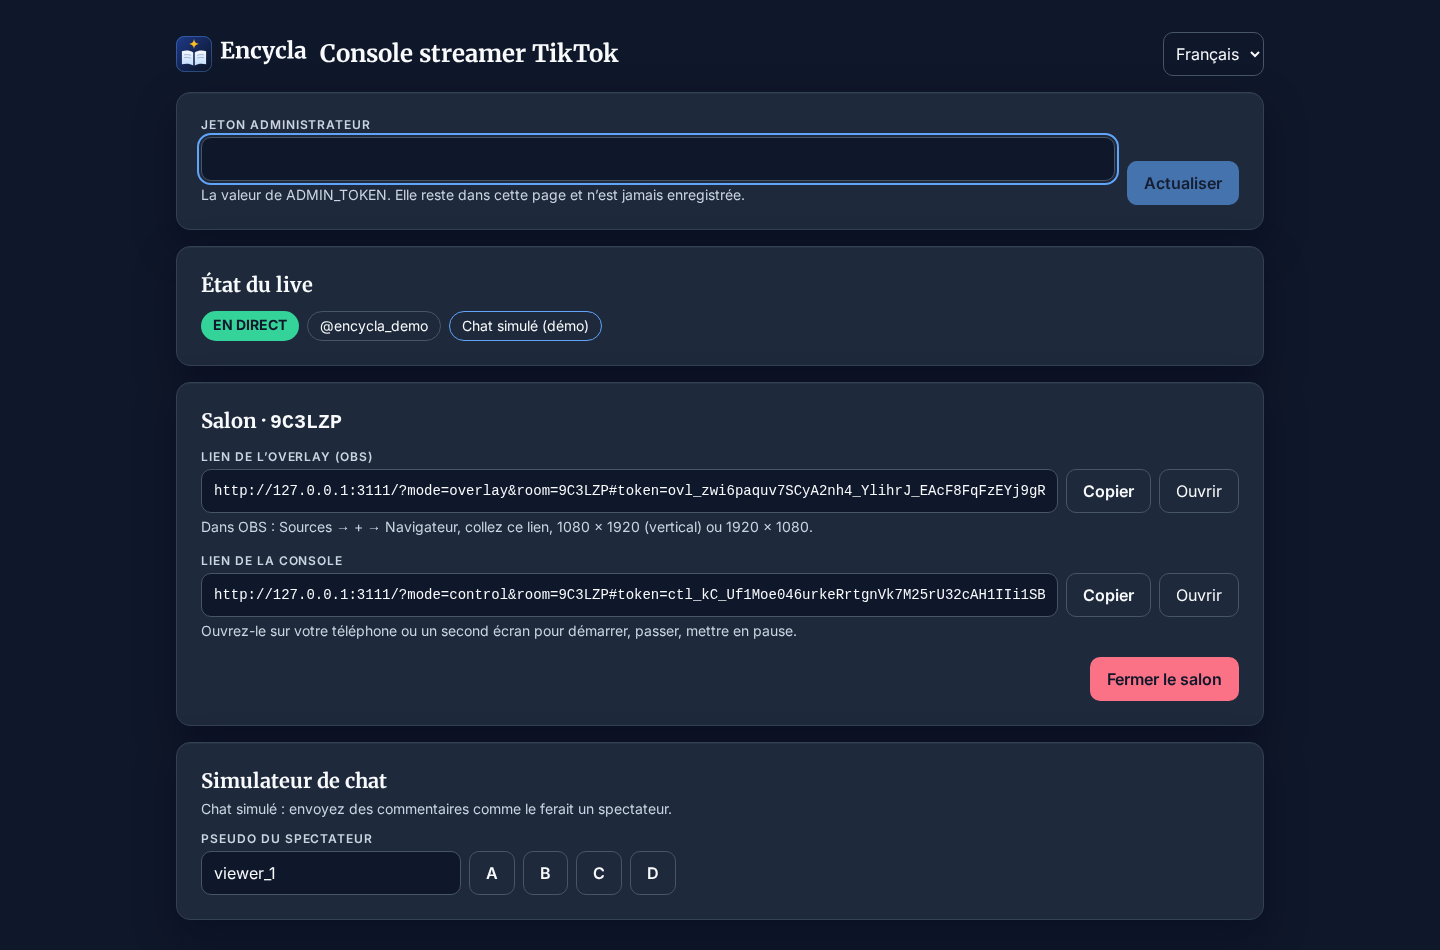
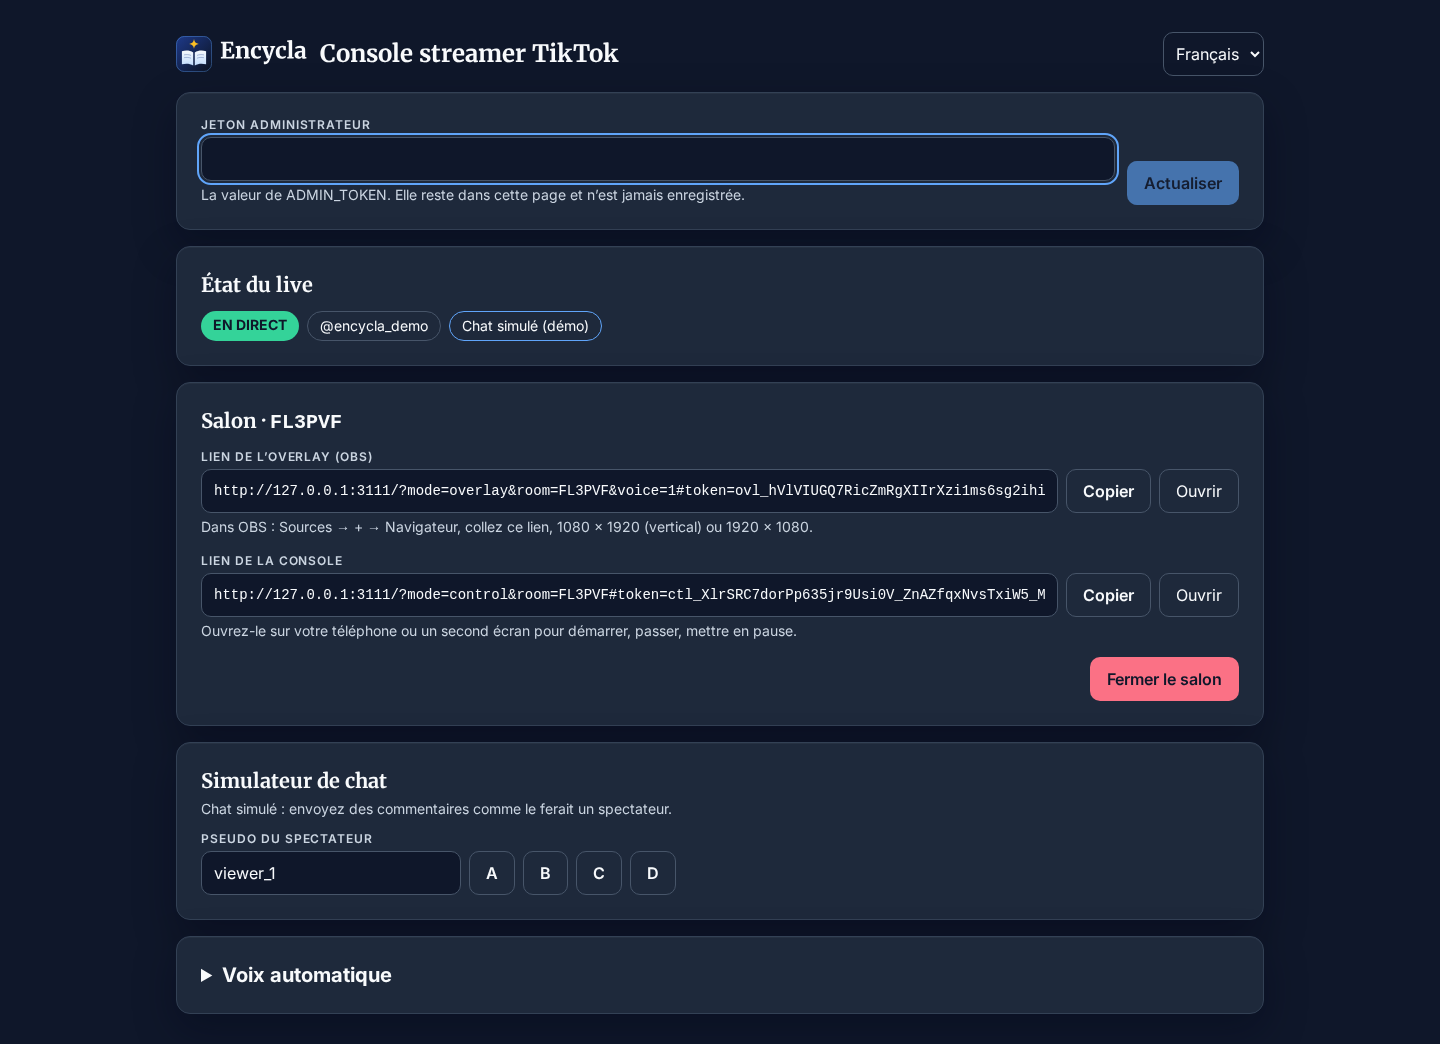
Screenshots refreshed with the voice controls (header button, home suggestion and settings, console voice panel); README and TESTING: voice tests and counts

Changed region(s): [[0.125, 0.0305, 0.875, 0.9768], [0.8125, 0.4579, 0.8438, 0.58], [0.8125, 0.0305, 0.875, 0.0916]]

diff --git a/README.md b/README.md
@@ -71,7 +71,7 @@ Principes d'architecture :
 | Interface | React 19, thème sombre AA, clavier (`A`–`D`, `1`–`4`, `M` pour le son, `Échap` pour quitter), annonces lecteur d'écran, voix automatique (synthèse vocale du navigateur, fr/en/ar), sons synthétisés, PWA (manifeste, icônes *maskable*). |
 | Images | Proxy same-origin `/img` : aucun nom de fichier ni crédit avant la révélation, métadonnées retirées, cache disque plafonné. |
 | Exploitation | Docker non-root, Caddy HTTPS, SQLite avec repli mémoire, validation de configuration *fail-fast*, healthcheck, sauvegardes `VACUUM INTO`. |
-| Qualité | TypeScript strict, 429 tests Vitest, 47 tests Playwright (bureau, Pixel 7, iPhone 14, TikTok), test de charge, CI complète. |
+| Qualité | TypeScript strict, 452 tests Vitest, 50 tests Playwright (bureau, Pixel 7, iPhone 14, TikTok, voix), test de charge, CI complète. |
 
 ## 3. Modes de jeu
 
@@ -102,6 +102,8 @@ C'est le jeu complet ; TikTok est désactivé par défaut (`TIKTOK_ENABLED=false
 | Overlay OBS (1920 × 1080) | Console de jeu |
 | --- | --- |
 | ![Overlay TikTok pendant une question](docs/screenshots/desktop-fr-tiktok-overlay-question.png) | ![Console de jeu TikTok](docs/screenshots/desktop-fr-tiktok-control.png) |
+
+Le navigateur sans tête qui a pris ces captures n'a aucune voix installée : la console affiche donc l'avis « Ce navigateur ne propose aucune voix de synthèse vocale ». Sur un ordinateur avec des voix, la liste « Voix (français) » les propose.
 
 Les deux modes sont vérifiés de bout en bout par Playwright contre le serveur construit : voir [Tests et CI](#13-tests-et-ci).
 

diff --git a/docs/TESTING.md b/docs/TESTING.md
@@ -677,3 +677,9 @@ Résultat au 2026-11-18 : 23/24 parcours verts au premier passage (bureau, iPhon
 ### Captures du README
 
 `pnpm docs:screenshots` reconstruit l'application, lance deux serveurs dédiés (ports 3110/3111, base neuve) et capture les écrans réels dans `docs/screenshots/` ; une capture échoue si une image visible n'a pas chargé. Les images Commons passent par le proxy `/img` et restent dans `data/image-cache` pour les relances.
+
+## Voix automatique (D-115)
+
+- Unitaires (`tests/client/speech.test.tsx`, `speechSynthesis` simulé) : réglages par lieu et paramètres d'URL, choix de la voix par langue sans repli sur une autre langue, texte lu à chaque phase (question + A/B/C/D, repères 10 s / 5 s / 0 s, bonne réponse, article en option), noms scientifiques, annulation entre les manches, avis « aucune voix », autoplay bloqué puis débloqué, composants (bouton d'en-tête, panneau de réglages, proposition de l'accueil, état de l'overlay).
+- E2E (`tests/e2e/voice.spec.ts`, et l'overlay dans `tiktok.spec.ts`) : les navigateurs sans tête n'ont aucune voix, donc `tests/e2e/fakeSpeech.ts` remplace `speechSynthesis` par un enregistreur avec des voix fr et en seulement. Vérifié : voix coupée par défaut pour un joueur, bouton d'en-tête et persistance, lecture de la question et des quatre lettres puis de la bonne réponse, avis sans voix arabe (rien lu dans une autre langue), réglages gardés après rechargement, voix activée par défaut sur l'overlay OBS.
+- Non vérifiable en CI : le son réel. À tester à la main avant un live (checklist de docs/TIKTOK.md).
